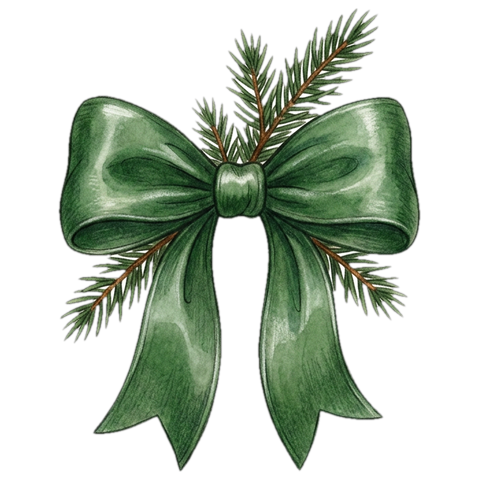
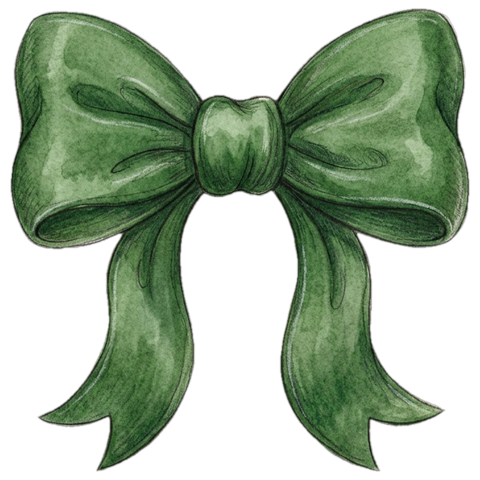
feat(okviri): tanje zelene pruge, mašne bez iglica, velika mašna
Zelene pruge 2,5 mm (korak 5) kao crvene prugice: od 6 mm izgledale su kao
ploha, ne kao izmjena. Mašne ponovno generirane samo kao vrpca. Velika mašna
(56 × 38 mm) je kvačica uz mašnu; spušta zaglavlje ~12 mm, pa je pravilo
kvalitete odbije tamo gdje bi smanjila slike.

Claude-Session: https://claude.ai/code/session_015y6PHjfX67V726xR22ZvzD

diff --git a/src/lib/okviri.ts b/src/lib/okviri.ts
@@ -10,7 +10,8 @@ export type Masna = "crvena" | "zelena";
 export type Ukras = "medo" | "konjic" | "medenjak" | "grancica" | "drvce" | "praporci" | "snjegovic" | "auto" | "vrtuljak" | "imela";
 /** Kutovi redom: gore lijevo, gore desno, dolje lijevo, dolje desno. */
 export type Kutovi = [Ukras | null, Ukras | null, Ukras | null, Ukras | null];
-export interface Okvir { rub: Rub; masna: Masna | null; kutovi: Kutovi }
+/** `velikaMasna`: mašna 56 mm umjesto 38 mm (spušta zaglavlje ~12 mm); samo uz mašnu. */
+export interface Okvir { rub: Rub; masna: Masna | null; velikaMasna?: true; kutovi: Kutovi }
 
 export const RUBOVI: Record<Rub, string> = {
   bez: "Bez ruba", "kocke-crvene": "Kockice crveno-bijele", "kocke-zelene": "Kockice zeleno-bijele",
@@ -44,6 +45,7 @@ export function normalizirajOkvir(x: unknown): Okvir {
     rub: jeRub(o.rub) ? o.rub : "bez",
     masna: jeMasna(o.masna) ? o.masna : null,
     kutovi: [0, 1, 2, 3].map((i) => (jeUkras(k[i]) ? k[i] : null)) as Kutovi,
+    ...(o.velikaMasna === true && jeMasna(o.masna) ? { velikaMasna: true as const } : {}),
   };
 }
 export const imaOkvir = (o: Okvir | null | undefined): o is Okvir => !!o && (o.rub !== "bez" || !!o.masna || o.kutovi.some(Boolean));
@@ -58,7 +60,8 @@ export const jeUkrasUrl = (url: string) => url.startsWith("/okviri/");
 export const A4 = { w: 210, h: 297 } as const;
 /** Uzorak ide do 5 mm od ruba papira (kućni pisači ne ispisuju do ruba); bijela kartica od 14 mm. */
 const VANI = 5, KARTICA = 14;
-const KUT = 28, MASNA = { x: 86, y: 3, w: 38, h: 26 };
+const KUT = 28, MASNA = { x: 86, y: 3, w: 38, h: 26 }, VELIKA_MASNA = { x: 77, y: 2, w: 56, h: 38 };
+const masna = (o: Okvir) => (o.velikaMasna ? VELIKA_MASNA : MASNA);
 
 /**
  * Prostor za zadatak (mm): lijevo/desno, vrh zaglavlja, dno sadržaja i podnožje. `sredina`: zaglavlje
@@ -70,7 +73,7 @@ export function podrucje(o: Okvir | null | undefined): Podrucje {
   const gore = !!o.kutovi[0] || !!o.kutovi[1], dolje = !!o.kutovi[2] || !!o.kutovi[3];
   return {
     L: 20, D: A4.w - 20,
-    vrh: o.masna ? MASNA.y + MASNA.h + 2 : gore ? 24 : 21,
+    vrh: o.masna ? masna(o).y + masna(o).h + 2 : gore ? 24 : 21,
     dno: A4.h - (dolje ? 35 : 22),
     podnozjeY: A4.h - 19,
     sredina: !!o.masna || gore,
@@ -85,7 +88,7 @@ export interface Slojevi { uzorak: Pravokutnik[]; kartica: { x: number; y: numbe
 const UZORCI: Record<Exclude<Rub, "bez">, { boja: string; prozirnost: number; sirina: number; korak: number; kocke: boolean }> = {
   "kocke-crvene": { boja: "#d9483b", prozirnost: 0.32, sirina: 5, korak: 10, kocke: true },
   "kocke-zelene": { boja: "#4f8a5b", prozirnost: 0.32, sirina: 5, korak: 10, kocke: true },
-  "pruge-zelene": { boja: "#a9c9a4", prozirnost: 1, sirina: 6, korak: 12, kocke: false },
+  "pruge-zelene": { boja: "#8fbc93", prozirnost: 1, sirina: 2.5, korak: 5, kocke: false },
   "prugice-crvene": { boja: "#e8857c", prozirnost: 1, sirina: 2.5, korak: 5, kocke: false },
 };
 
@@ -113,7 +116,7 @@ export function slojevi(o: Okvir | null | undefined): Slojevi {
   }
   const mjesta = [[6, 6], [A4.w - 6 - KUT, 6], [6, A4.h - 6 - KUT], [A4.w - 6 - KUT, A4.h - 6 - KUT]] as const;
   o.kutovi.forEach((k, i) => { if (k) out.slike.push({ url: urlUkrasa(k), x: mjesta[i][0], y: mjesta[i][1], w: KUT, h: KUT }); });
-  if (o.masna) out.slike.push({ url: urlUkrasa(`masna-${o.masna}`), ...MASNA });
+  if (o.masna) out.slike.push({ url: urlUkrasa(`masna-${o.masna}`), ...masna(o) });
   return out;
 }
 

diff --git a/src/lib/zadaci/klijent.ts b/src/lib/zadaci/klijent.ts
@@ -706,7 +706,11 @@ export function pokreni(korijen: HTMLElement, p: Podaci) {
       h("label", {}, "Rub"),
       sel(okvir.rub, Object.entries(RUBOVI).map(([k, t]) => [k, t, ne(s({ rub: k as Okvir["rub"] }))]), (v) => postaviOkvir(s({ rub: v as Okvir["rub"] }))),
       h("label", {}, "Mašna gore"),
-      sel(okvir.masna ?? "", [["", "Bez mašne"], ...Object.entries(MASNE).map(([k, t]) => [k, t, ne(s({ masna: k as Okvir["masna"] }))] as [string, string, string?])], (v) => postaviOkvir(s({ masna: (v || null) as Okvir["masna"] }))),
+      sel(okvir.masna ?? "", [["", "Bez mašne"], ...Object.entries(MASNE).map(([k, t]) => [k, t, ne(s({ masna: k as Okvir["masna"] }))] as [string, string, string?])],
+        (v) => postaviOkvir(normalizirajOkvir(s({ masna: (v || null) as Okvir["masna"] })))),
+      okvir.masna ? h("label", { class: "z-kvacica", title: zastoNe(normalizirajOkvir({ ...okvir, velikaMasna: !okvir.velikaMasna })) || undefined },
+        h("input", { type: "checkbox", checked: !!okvir.velikaMasna, onchange: () => postaviOkvir(normalizirajOkvir({ ...okvir, velikaMasna: !okvir.velikaMasna })) }),
+        " Velika mašna (zadatak počinje niže)") : null,
       ...KUTOVI.flatMap((kut, i) => [
         h("label", {}, kut),
         sel(okvir.kutovi[i] ?? "", [["", "—"], ...Object.entries(UKRASI).map(([k, t]) => {

diff --git a/src/lib/okviri.test.ts b/src/lib/okviri.test.ts
@@ -56,3 +56,12 @@ test("okvir: PDF s okvirom i ukrasima (PNG s prozirnošću) se složi", async ()
   const pdf = await PDFDocument.load(await napraviPdf(d, slike, fontovi));
   assert.equal(pdf.getPageCount(), 1);
 });
+
+test("okvir: velika mašna spušta zaglavlje i postoji samo uz mašnu", () => {
+  const mala: Okvir = { rub: "bez", masna: "crvena", kutovi: [null, null, null, null] };
+  const velika = normalizirajOkvir({ ...mala, velikaMasna: true });
+  assert.equal(velika.velikaMasna, true);
+  assert.ok(podrucje(velika).vrh > podrucje(mala).vrh + 10);
+  assert.equal(normalizirajOkvir({ ...mala, masna: null, velikaMasna: true }).velikaMasna, undefined);
+  assert.ok(slojevi(velika).slike[0].w > slojevi(mala).slike[0].w);
+});

diff --git a/docs/okviri.md b/docs/okviri.md
@@ -9,7 +9,8 @@ Okvir je JSON u `zadaci.okvir` (migracija 0030; NULL = bez okvira), kod je `src/
 
 - **rub**: bez, kockice crveno-bijele, kockice zeleno-bijele, pruge zeleno-bijele, prugice crveno-bijele.
   Kombinirane crveno-zelene kockice su namjerno izostavljene (Anita: ne sviđaju joj se).
-- **mašna** gore u sredini: crvena ili zelena.
+- **mašna** gore u sredini: crvena ili zelena, samo vrpca (bez iglica, ponovno generirane 15. 11.). „Velika mašna”
+  (`velikaMasna`) je 56 × 38 mm umjesto 38 × 26 i spušta zaglavlje za ~12 mm; pravilo kvalitete je odbije gdje bi to smanjilo slike.
 - **kutovi** (gore lijevo, gore desno, dolje lijevo, dolje desno): medvjedić, konjić za ljuljanje, medenjak, grančica jele,
   okićeno drvce, zlatni praporci, snjegović, auto s borom i poklonima, božićni vrtuljak, imela.
 - **Gotovi okviri** (`GOTOVI`): Jednostavni, Kockice, Pruge (iz Anitine skice). „Vlastiti” je bilo koja druga kombinacija.
@@ -20,7 +21,8 @@ Okvir je JSON u `zadaci.okvir` (migracija 0030; NULL = bez okvira), kod je `src/
 Isti slojevi idu u PDF (`ispis-pdf.ts`, `drawRectangle` s prozirnošću) i u HTML pregled (`okvirSvg`), pa izgledaju jednako.
 
 - Uzorak počinje 5 mm od ruba papira: kućni pisači ne ispisuju do ruba. Boje su svijetle (kockice 32 % prozirnosti), da rub
-  ne troši puno tinte. Kockice su okomite i vodoravne pruge preko kojih se sjecišta zatamne.
+  ne troši puno tinte. Kockice su okomite i vodoravne pruge preko kojih se sjecišta zatamne. Pruge i prugice su iste širine (2,5 mm, korak 5 mm):
+  šire zelene pruge (6 mm) izgledale su kao ploha, ne kao izmjena.
 - Ukrasi su PNG s prozirnošću u `public/okviri/` (480 px, kvadrat). `preglednik.ts` ih pri slaganju PDF-a ne pretvara u JPEG
   (`jeUkrasUrl`), jer leže na uzorku. Mašna 38 × 26 mm, ukras u kutu 28 mm.
 - `podrucje(okvir)` je prostor za zadatak: 20 mm sa strana (bez okvira 15), vrh ispod mašne, dno iznad donjih ukrasa.
